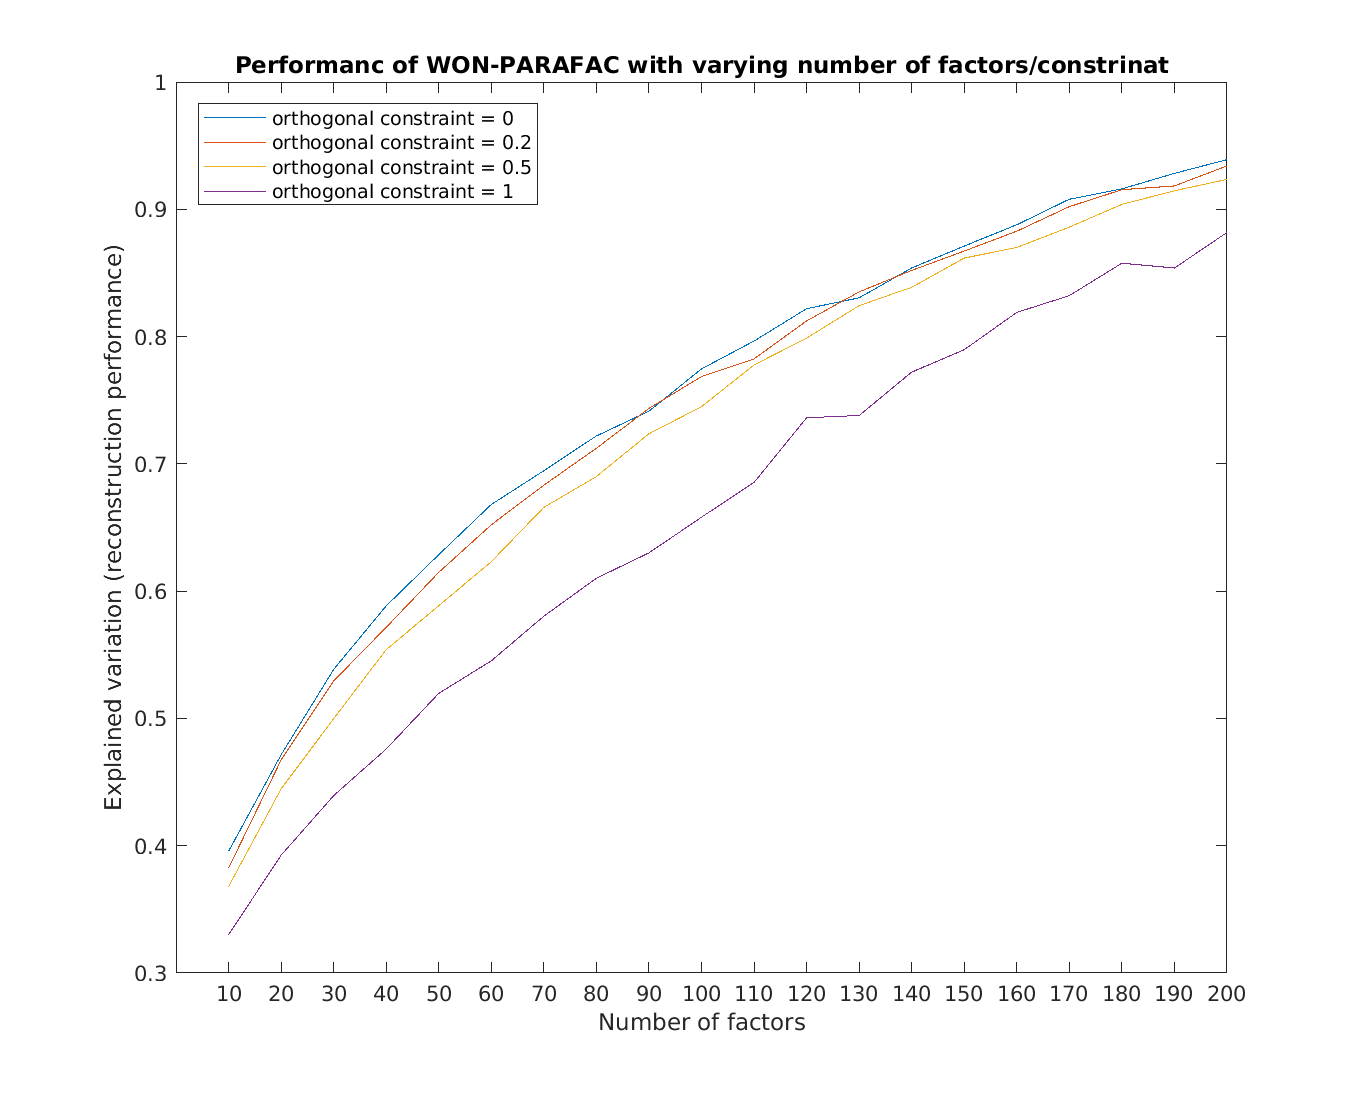
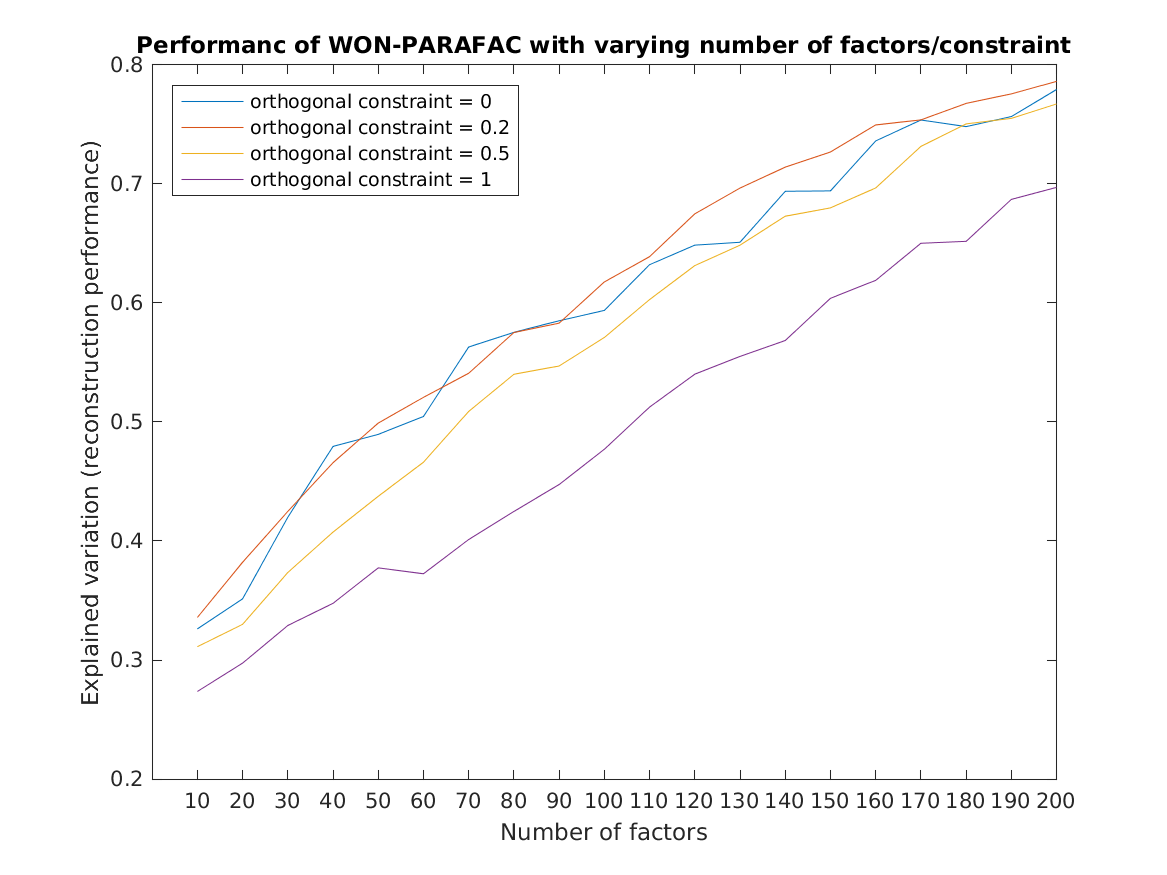
minor error fix

diff --git a/Demo.m b/Demo.m
@@ -35,7 +35,7 @@ options.orthogonal = [.2, 0, 0]; % orthogonal constraint only on gene mode (stre
 % weight setting
 var = 1./sum(sum(X_use.^2,1),2);
 var = var./sum(var(:));
-options.weight_W = ones(size(X_use)).*repmat(var, [size(X_use,1), size(X_use,2), size(X_use,3)]);
+options.weight_W = ones(size(X_use)).*repmat(var, [size(X_use,1), size(X_use,2)]);
 
 
 
@@ -62,7 +62,7 @@ end
 %% Plot the outcome
 
 fig = plot(Nbasis, final_fit);
-title('Performanc of WON-PARAFAC with varying number of factors/constrinat')
+title('Performanc of WON-PARAFAC with varying number of factors/constraint')
 xlabel('Number of factors')
 ylabel('Explained variation (reconstruction performance)')
 
